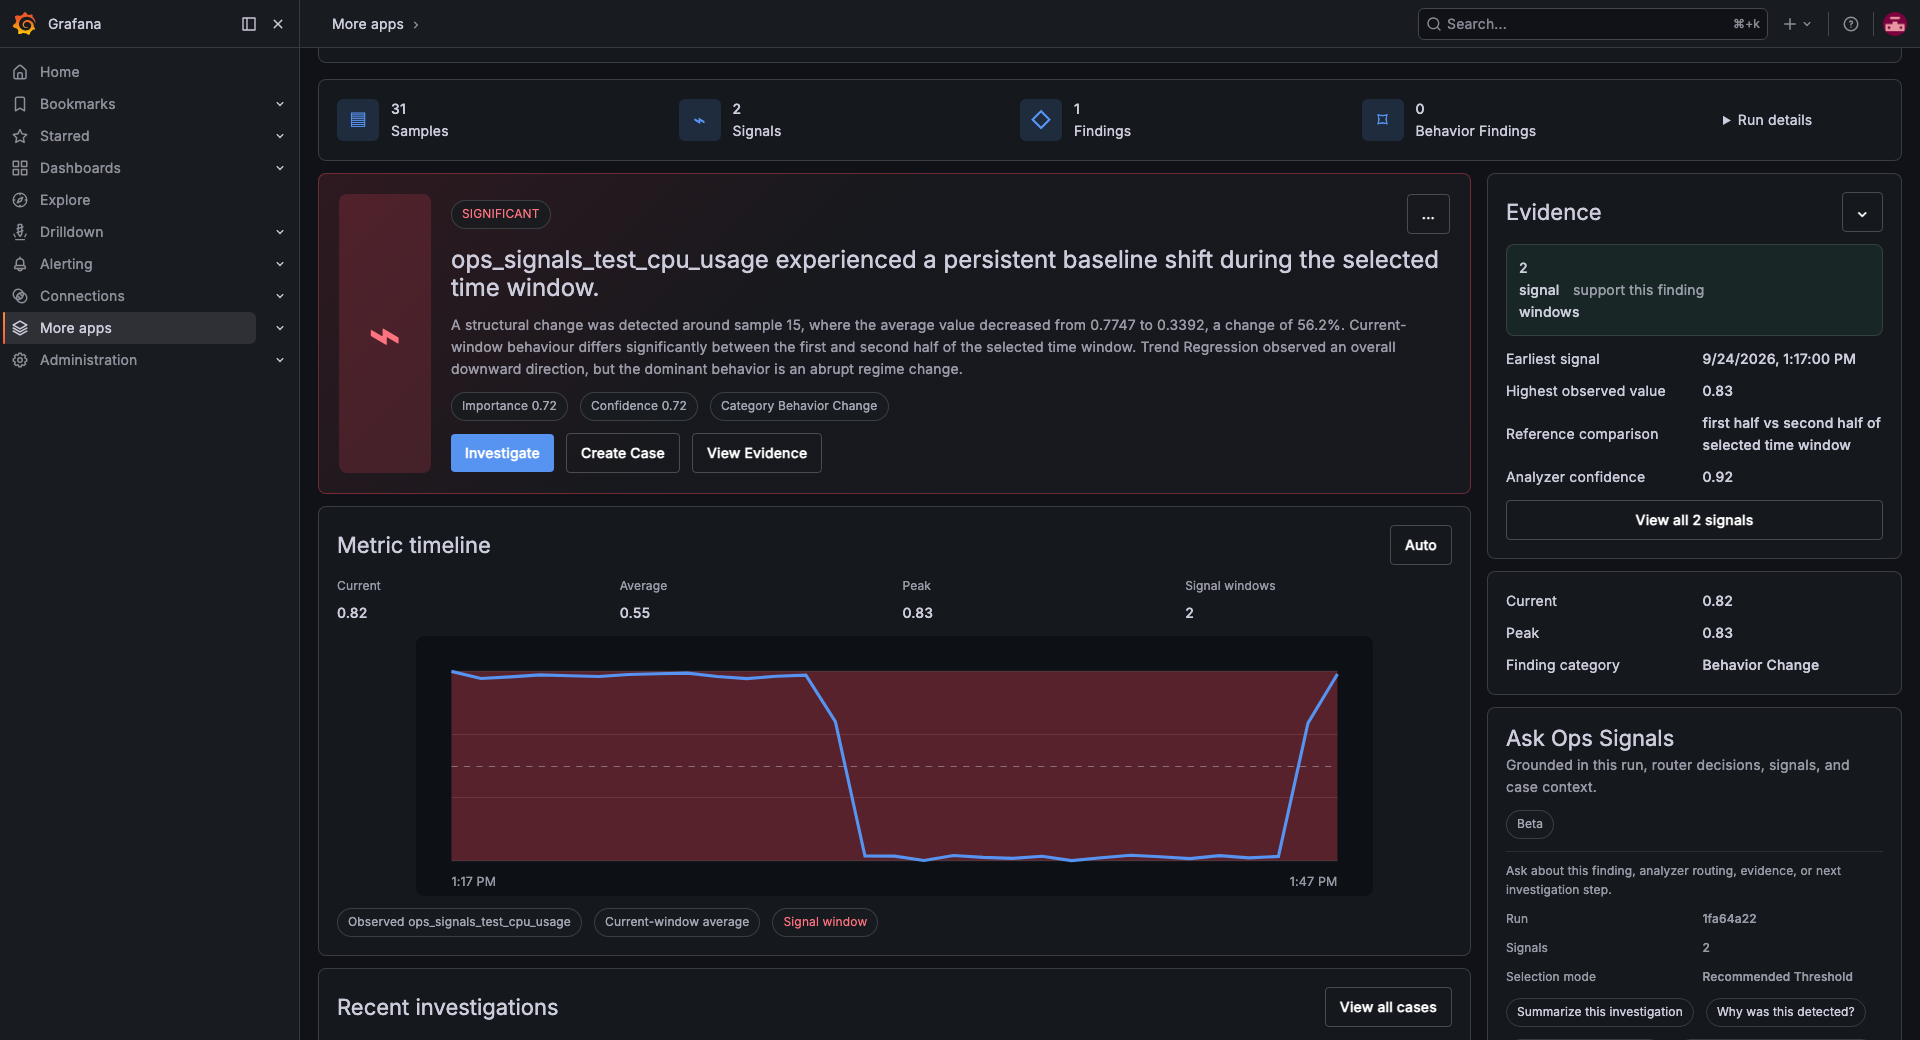
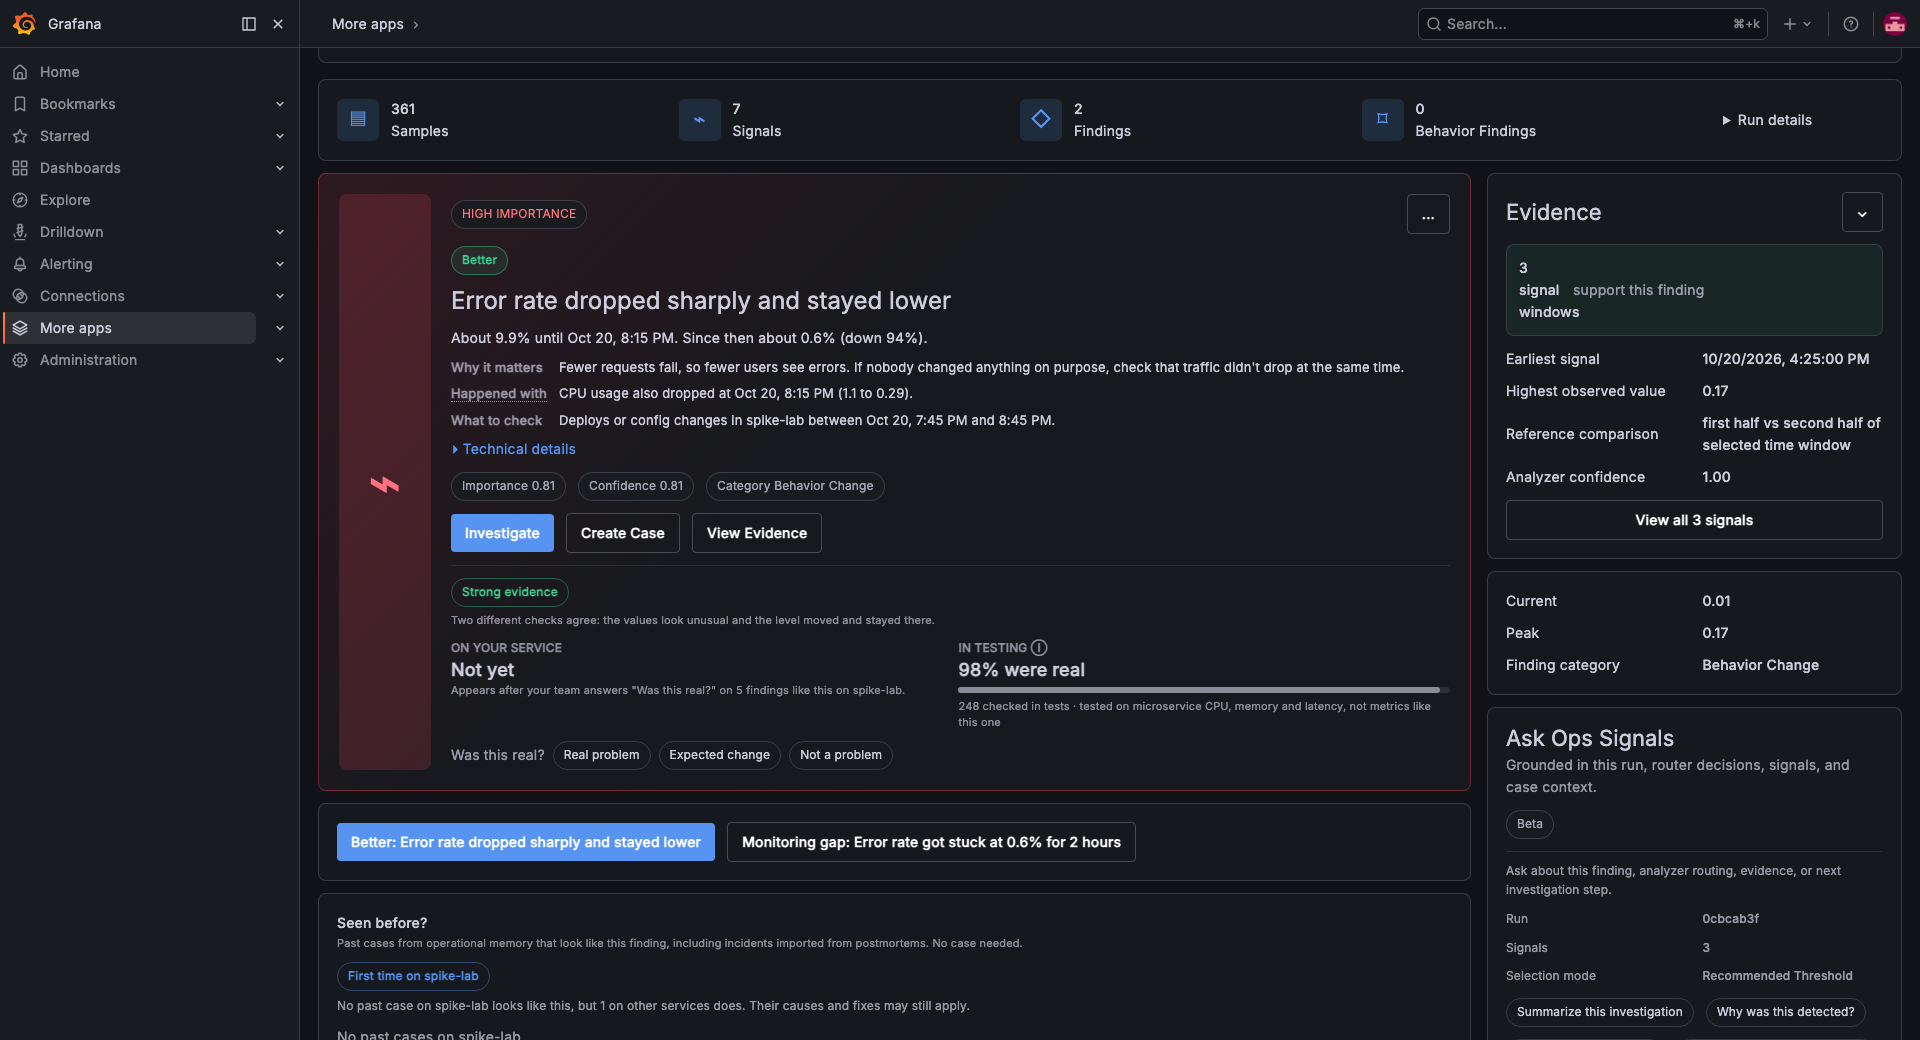
docs: README screenshots show findings in plain words
A new web screenshot of finding cards and a re-taken Grafana analysis
result. The plugin badge no longer stretches across the card, and the
buttons that switch between a run's findings use the plain headline.

diff --git a/frontend/src/grafana/PluginPlainFinding.tsx b/frontend/src/grafana/PluginPlainFinding.tsx
@@ -16,8 +16,9 @@ const TONE: Record<PlainTone, { color: string; border: string; background: strin
 export function PluginPlainBadge({ plain }: { plain: FindingPlain }) {
   const tone = TONE[plainTone(plain.badge)];
   const important = TONE[plain.service_importance === 'critical' ? 'gap' : 'neutral'];
+  // A box of its own, so the chips keep their size in a column layout instead of stretching.
   return (
-    <>
+    <span style={{ display: 'inline-flex', gap: 6, alignItems: 'center', alignSelf: 'flex-start', flex: 'none' }}>
       <span
         data-testid="plugin-plain-badge"
         style={{ ...styles.chip, color: tone.color, borderColor: tone.border, background: tone.background, fontWeight: 600, flex: 'none' }}
@@ -25,11 +26,11 @@ export function PluginPlainBadge({ plain }: { plain: FindingPlain }) {
         {plain.badge_label}
       </span>
       {plain.service_importance_label ? (
-        <span data-testid="plugin-plain-importance" style={{ ...styles.chip, color: important.color, borderColor: important.border, marginLeft: 6, flex: 'none' }}>
+        <span data-testid="plugin-plain-importance" style={{ ...styles.chip, color: important.color, borderColor: important.border, flex: 'none' }}>
           {plain.service_importance_label}
         </span>
       ) : null}
-    </>
+    </span>
   );
 }
 

diff --git a/frontend/src/grafana/PanelPreview.tsx b/frontend/src/grafana/PanelPreview.tsx
@@ -310,7 +310,7 @@ function localAssistantAnswer(
   let headline = 'Current investigation summary';
   let answer = `${result.metric} for ${result.service} returned ${sampleCount.toLocaleString()} Prometheus samples. `;
   if (finding) {
-    answer += `The top finding is "${finding.title}" with importance ${formatNumber(finding.importance_score)}. `;
+    answer += `The top finding is "${finding.plain?.headline ?? finding.title}" with importance ${formatNumber(finding.importance_score)}. `;
   } else {
     answer += 'No operational finding was emitted for this run. ';
   }
@@ -1471,7 +1471,7 @@ export function PanelPreview({ result, backendUrl }: { result: GrafanaAnalysisRe
                       setEvidenceExpanded(false);
                     }}
                   >
-                    {finding.title}
+                    {finding.plain ? `${finding.plain.badge_label}: ${finding.plain.headline}` : finding.title}
                   </button>
                 ))}
               </div>

diff --git a/README.md b/README.md
@@ -190,6 +190,15 @@ below is how to actually work with each piece.
 
 ![Ops Signals Overview](docs/screenshots/images/web/01-overview.png)
 
+### Findings in Plain Words
+
+Each finding leads with a badge (Worse, Better, Monitoring gap...) and a headline, then what changed
+in the metric's own units, why it matters, what changed at the same moment, and what to check. The
+analyzer's own wording stays under **Technical details**. The wording is a file you edit
+([how](docs/finding-wording.md)), not AI output.
+
+![Findings in plain words: an error rate that dropped reads "Better", with why it matters, the CPU drop at the same minute, and what to check](docs/screenshots/images/web/13-findings-plain-words.png)
+
 ### Analyze Prometheus Data Directly
 
 ![Direct Prometheus Analysis](docs/screenshots/images/web/03-new-analysis-prometheus.png)
@@ -208,7 +217,7 @@ for a different next step.
 
 ### Run Analysis Inside Grafana
 
-![Grafana Analysis Results](docs/screenshots/images/grafana-plugin/02-metrics-analysis.png)
+![Grafana analysis result: the same plain wording as the web UI, with the evidence beside it](docs/screenshots/images/grafana-plugin/02-metrics-analysis.png)
 
 ### Enriched Alerts in Slack
 

diff --git a/frontend/CHANGELOG.md b/frontend/CHANGELOG.md
@@ -10,7 +10,8 @@ release names the plugin version it ships. The full project changelog is
   rows and the finding lookup show a finding's badge (Worse, Better, Monitoring gap...) and plain
   headline, then what changed, why it matters and what to check, with the stored text under
   "Technical details". A needs-attention row no longer shows an improvement in red. Hovering
-  "Happened with" explains how the other finding was picked.
+  "Happened with" explains how the other finding was picked. The buttons that switch between a
+  run's findings use the plain headline too.
 - **Service context.** For a service described in the wording file, findings show its importance
   ("Critical service") next to the badge, a "Your target" line and a "This service" line.
 - **Roles.** Through Grafana, a Viewer's Run Analysis, "Was this real?", Create case, case drawer

diff --git a/docs/screenshots.md b/docs/screenshots.md
@@ -39,6 +39,12 @@ Findings show severity, confidence, evidence, affected services, timestamps, and
 
 ![Operational Findings](screenshots/images/web/04-findings.png)
 
+Each finding card says what happened in plain words: a badge, a headline, what changed, why it
+matters, what changed at the same moment and what to check. See
+[Finding wording](finding-wording.md).
+
+![Findings in plain words](screenshots/images/web/13-findings-plain-words.png)
+
 ### Finding Drill-down
 
 With [drill-down](finding-drilldown.md) on, a finding from an autonomous Prometheus run shows which
